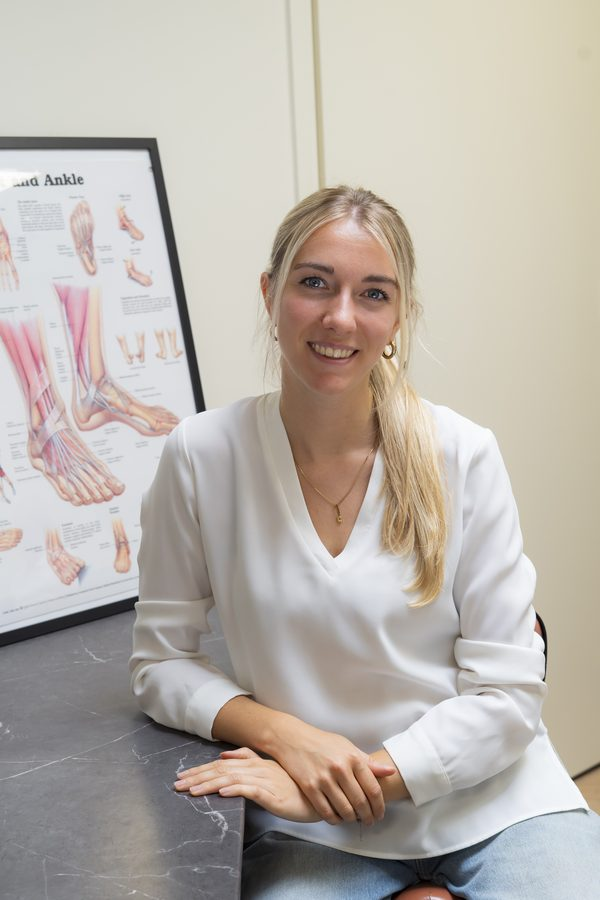
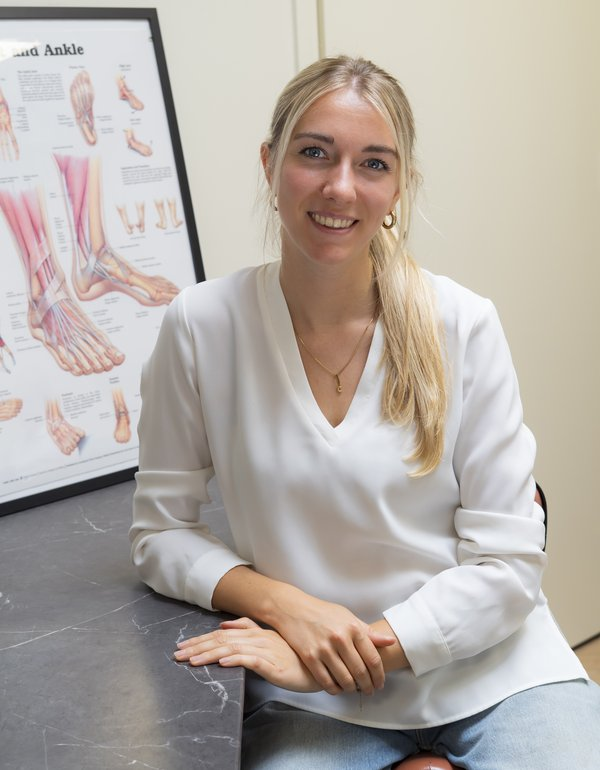
aanpassingen

diff --git a/maatslippers.html b/maatslippers.html
@@ -62,24 +62,16 @@
   <section class="waarom container">
     <div class="waarom-intro">
       <p class="eyebrow">Voorbeelden</p>
-      <h2>Een greep uit onze maatslippers</h2>
-      <p>Stijlvol en therapeutisch tegelijk &mdash; iedere maatslipper is uniek, net als de voet waarvoor hij gemaakt is.</p>
+      <h2>Een greep uit ons werk</h2>
+      <p>Stijlvol en therapeutisch tegelijk &mdash; van volledig eigen ontwerp tot een steunzool in uw eigen sandaal.</p>
     </div>
 
     <div class="maatslippers-cabinet">
+    <p class="vitrine-zone-label">Ontworpen door VoetSelect</p>
     <div class="maatslippers-shelf">
-      <button type="button" class="maatslipper-shelf-item" data-full="img/maatslipper-2.jpg" data-alt="Lichtbruine suède maatslipper met gekruiste banden">
-        <img src="img/maatslipper-2.jpg" alt="Lichtbruine suède maatslipper met gekruiste banden">
-      </button>
-      <button type="button" class="maatslipper-shelf-item" data-full="img/maatslipper-3.jpg" data-alt="Bruine suède maatslipper met kurken zool">
-        <img src="img/maatslipper-3.jpg" alt="Bruine suède maatslipper met kurken zool">
-      </button>
       <button type="button" class="maatslipper-shelf-item" data-full="img/maatslipper-4.jpg" data-alt="Zwarte leren maatslipper, teenslipper model">
         <img src="img/maatslipper-4.jpg" alt="Zwarte leren maatslipper, teenslipper model">
       </button>
-      <div class="maatslipper-shelf-item maatslipper-shelf-item--deco">
-        <img src="img/vitrine-plant.jpg" alt="Kleine plant in een pot">
-      </div>
       <button type="button" class="maatslipper-shelf-item" data-full="img/maatslipper-5.jpg" data-alt="Bruine suède maatslipper met klittenbandsluiting">
         <img src="img/maatslipper-5.jpg" alt="Bruine suède maatslipper met klittenbandsluiting">
       </button>
@@ -89,11 +81,21 @@
       <button type="button" class="maatslipper-shelf-item" data-full="img/maatslipper-7.jpg" data-alt="Donkerbruine maatslipper met slangenprint bandje">
         <img src="img/maatslipper-7.jpg" alt="Donkerbruine maatslipper met slangenprint bandje">
       </button>
-      <div class="maatslipper-shelf-item maatslipper-shelf-item--deco">
-        <img src="img/vitrine-plant-2.jpg" alt="Aloë vera in een betonnen pot">
-      </div>
       <button type="button" class="maatslipper-shelf-item" data-full="img/maatslipper-8.jpg" data-alt="Crèmekleurige maatslipper met zebraprint bandjes">
         <img src="img/maatslipper-8.jpg" alt="Crèmekleurige maatslipper met zebraprint bandjes">
+      </button>
+      <div class="maatslipper-shelf-item maatslipper-shelf-item--deco">
+        <img src="img/vitrine-plant.jpg" alt="Kleine plant in een pot">
+      </div>
+    </div>
+
+    <p class="vitrine-zone-label">Uw eigen sandaal + onze steunzool</p>
+    <div class="maatslippers-shelf">
+      <button type="button" class="maatslipper-shelf-item" data-full="img/maatslipper-2.jpg" data-alt="Lichtbruine suède maatslipper met gekruiste banden">
+        <img src="img/maatslipper-2.jpg" alt="Lichtbruine suède maatslipper met gekruiste banden">
+      </button>
+      <button type="button" class="maatslipper-shelf-item" data-full="img/maatslipper-3.jpg" data-alt="Bruine suède maatslipper met kurken zool">
+        <img src="img/maatslipper-3.jpg" alt="Bruine suède maatslipper met kurken zool">
       </button>
       <button type="button" class="maatslipper-shelf-item" data-full="img/maatslipper-9.jpg" data-alt="Zwarte leren maatslipper met klittenbandsluiting en cognac accentzool, hoek">
         <img src="img/maatslipper-9.jpg" alt="Zwarte leren maatslipper met klittenbandsluiting en cognac accentzool, hoek">
@@ -101,6 +103,9 @@
       <button type="button" class="maatslipper-shelf-item" data-full="img/maatslipper-10.jpg" data-alt="Zwarte leren maatslipper met klittenbandsluiting en cognac accentzool, bovenaanzicht">
         <img src="img/maatslipper-10.jpg" alt="Zwarte leren maatslipper met klittenbandsluiting en cognac accentzool, bovenaanzicht">
       </button>
+      <div class="maatslipper-shelf-item maatslipper-shelf-item--deco">
+        <img src="img/vitrine-plant-2.jpg" alt="Aloë vera in een betonnen pot">
+      </div>
       <div class="maatslipper-shelf-item maatslipper-shelf-item--deco">
         <img src="img/vitrine-plant-3.jpg" alt="Klein groen plantje in een witte pot">
       </div>

diff --git a/overons.html b/overons.html
@@ -84,17 +84,17 @@
       <div class="team-member-grid">
 
         <div class="team-member-text">
-          <p class="eyebrow">Student &amp; praktijkassistente</p>
+          <p class="eyebrow">Podotherapeut</p>
           <h2>Lonneke Boselie</h2>
-          <p class="team-member-title">Student Podotherapie — Fontys Hogeschool Eindhoven</p>
-          <p>Lonneke bevindt zich in het vierde en afrondende jaar van de Podotherapie opleiding aan Fontys Hogeschool Eindhoven. Naast haar studie werkt zij als praktijkassistente bij VoetSelect, waar ze al snel een vertrouwd gezicht is geworden voor onze patiënten.</p>
-          <p>Als echte duizendpoot combineert Lonneke studiewerk, patiëntenzorg en praktijkondersteuning soepel met elkaar. Leergierig en enthousiast — zij brengt frisse energie en een betrokken houding naar ons team.</p>
-          <p><em>Misschien tot ziens in de praktijk!</em></p>
+          <p>Lonneke is werkzaam als podotherapeut bij VoetSelect. Met haar betrokkenheid, enthousiasme en persoonlijke benadering zet zij zich dagelijks in om patiënten te helpen bij uiteenlopende voet-, houdings- en bewegingsklachten.</p>
+          <p>Zij neemt de tijd om goed te luisteren, de oorzaak van de klachten te achterhalen en samen met de patiënt te werken aan een passende behandeling.</p>
+          <p>Dankzij haar ervaring binnen de praktijk kent Lonneke de organisatie en de patiënten goed. Haar persoonlijke benadering, leergierigheid en oog voor detail zorgen ervoor dat patiënten zich snel op hun gemak voelen.</p>
+          <p><em>Graag verwelkomt Lonneke u in de praktijk.</em></p>
         </div>
 
         <div class="team-member-photo">
           <div class="team-photo-circle">
-            <img src="img/lonneke-boselie.jpg" alt="Lonneke Boselie — Student Podotherapie">
+            <img src="img/lonneke-boselie.jpg" alt="Lonneke Boselie — Podotherapeut">
           </div>
           <div class="team-photo-deco team-photo-deco--blue" aria-hidden="true"></div>
           <div class="team-photo-deco team-photo-deco--terracotta" aria-hidden="true"></div>
@@ -113,8 +113,8 @@
           <span class="team-stat-label">Stappen per dag in de praktijk</span>
         </div>
         <div class="team-stat">
-          <span class="team-stat-number">60</span>
-          <span class="team-stat-label">Uur per week — studie én werk gecombineerd</span>
+          <span class="team-stat-number">2</span>
+          <span class="team-stat-label">Zorggerelateerde bacheloropleidingen</span>
         </div>
         <div class="team-stat">
           <span class="team-stat-number">10</span>

diff --git a/style.css b/style.css
@@ -1216,6 +1216,26 @@ body.menu-open {
   z-index: 2;
 }
 
+/* Label for a shelf within the cabinet — sits on the bare wood between shelves */
+.vitrine-zone-label {
+  position: relative;
+  z-index: 1;
+  display: inline-block;
+  margin: 0 0 10px 6px;
+  padding: 5px 14px;
+  background: rgba(255, 255, 255, 0.9);
+  border-radius: var(--radius-btn);
+  font-size: 12px;
+  font-weight: 700;
+  letter-spacing: 0.03em;
+  color: var(--color-text);
+  box-shadow: 0 2px 8px rgba(0, 0, 0, 0.12);
+}
+
+.maatslippers-shelf + .vitrine-zone-label {
+  margin-top: 22px;
+}
+
 .maatslippers-shelf {
   position: relative;
   z-index: 1;
